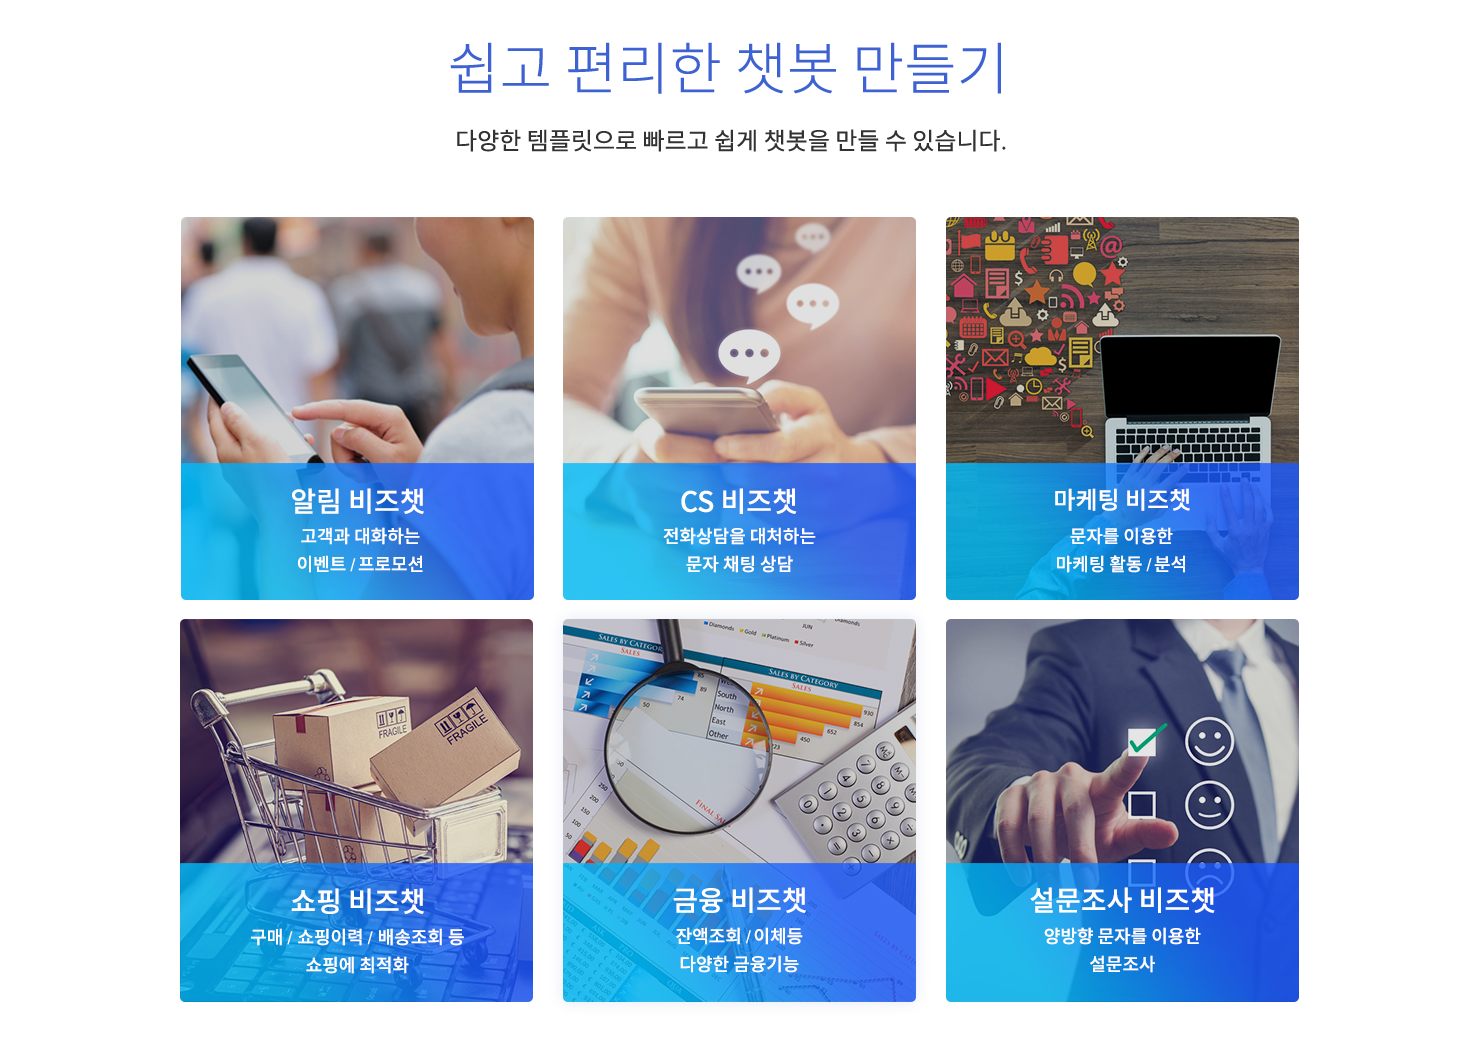
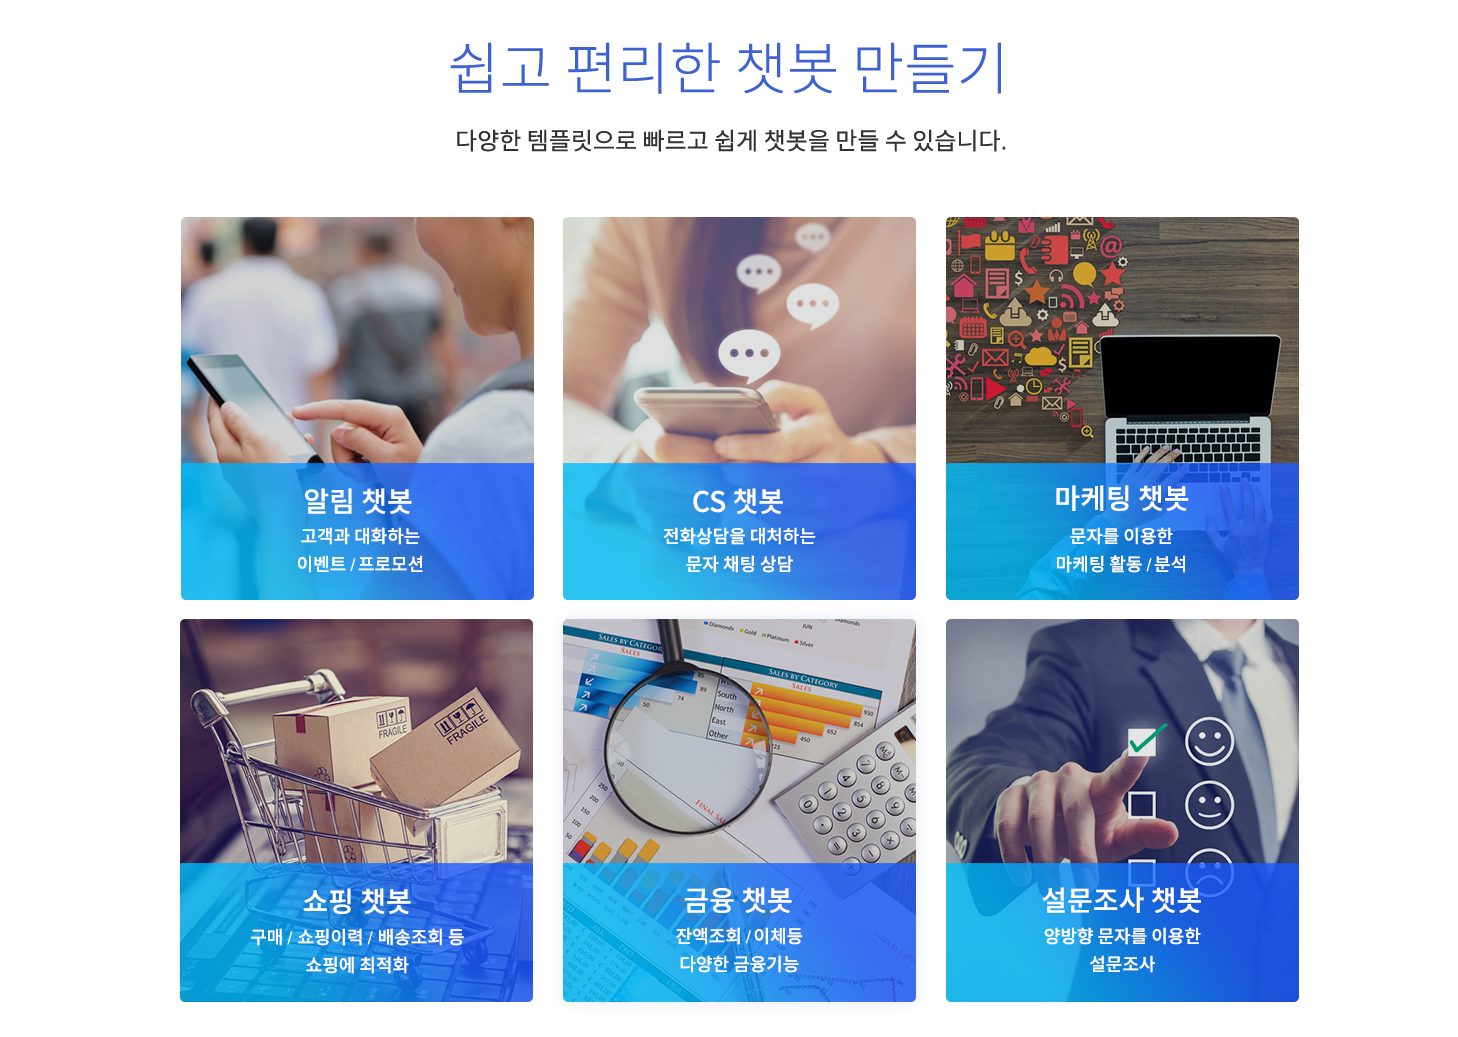
lisa

diff --git a/modules/playchat/working-ground/biz-summary-chatbot-report/client/views/biz-summary-chatbot-report-analysis.client.view.html b/modules/playchat/working-ground/biz-summary-chatbot-report/client/views/biz-summary-chatbot-report-analysis.client.view.html
@@ -135,12 +135,12 @@
                                         <div class="inline-block mt30">
                                             <div>
                                                 <div class="bot-messages-list mt20 mb50" style="width: 39%;">
-                                                    <span class="subject02">보낸 메세지 리스트</span>
+                                                    <span class="subject02">보낸 메시지 리스트</span>
                                                     <ul>
                                                         <li class="select mt14 mb0" style="border: 1px solid #d0d2d3;border-bottom: none;">
                                                             <div>
                                                                 <span class="message-title01">01.</span>
-                                                                <span class="message-title03">메세지</span>
+                                                                <span class="message-title03">메시지</span>
                                                                 <span  ng-click="cardUiSet(card)" class="open-btn"><img src="/modules/playchat/working-ground/biz-dialog-graph/client/imgs/minus_.png"></span>
                                                             </div>
                                                             <div class="detail-select pt10">
@@ -158,32 +158,32 @@
                                                         <li class="unsel mt0 mb0 sbox-01" style="border-bottom: none;">
                                                             <div>
                                                                 <span class="message-title01">06.</span>
-                                                                <span class="message-title03">메세지</span>
+                                                                <span class="message-title03">메시지</span>
                                                             </div>
                                                         </li>
                                                         <li class="unsel mt0 mb0 sbox-01" style="border-bottom: none;">
                                                             <div>
                                                                 <span class="message-title01">04.</span>
-                                                                <span class="message-title03">메세지</span>
+                                                                <span class="message-title03">메시지</span>
                                                             </div>
                                                         </li>
                                                         <li class="unsel mt0 mb0 sbox-02" style="border-bottom: none;">
                                                             <div>
                                                                 <span class="message-title01">03.</span>
-                                                                <span class="message-title03">메세지</span>
+                                                                <span class="message-title03">메시지</span>
                                                             </div>
                                                         </li>
                                                         <li class="unsel mt0 mb0 sbox-02">
                                                             <div>
                                                                 <span class="message-title01">05.</span>
-                                                                <span class="message-title03">메세지</span>
+                                                                <span class="message-title03">메시지</span>
                                                             </div>
                                                         </li>
 
                                                         <li class="select mt0 mb0" style="border: 1px solid #d0d2d3;border-bottom: none;border-top: none;">
                                                             <div>
                                                                 <span class="message-title01">07.</span>
-                                                                <span class="message-title03">메세지</span>
+                                                                <span class="message-title03">메시지</span>
                                                                 <span  ng-click="cardUiSet(card)" class="open-btn">
                                         <img src="/modules/playchat/working-ground/biz-dialog-graph/client/imgs/minus_.png">
                                     </span>
@@ -205,13 +205,13 @@
                                                         <li class="unsel mt0 mb0 sbox-01" style="border-bottom: none;">
                                                             <div>
                                                                 <span class="message-title01">08.</span>
-                                                                <span class="message-title03">메세지</span>
+                                                                <span class="message-title03">메시지</span>
                                                             </div>
                                                         </li>
                                                         <li class="unsel mt0 mb0 sbox-01">
                                                             <div>
                                                                 <span class="message-title01">09.</span>
-                                                                <span class="message-title03">메세지</span>
+                                                                <span class="message-title03">메시지</span>
                                                             </div>
                                                         </li>
                                                     </ul>

diff --git a/modules/playchat/working-ground/layout-sam/client/views/layout-sam-development.client.view-analysis-report-modal.html b/modules/playchat/working-ground/layout-sam/client/views/layout-sam-development.client.view-analysis-report-modal.html
@@ -120,12 +120,12 @@
                             <div class="inline-block mt30">
                                 <div>
                                     <div class="bot-messages-list mt20 mb50" style="width: 39%;">
-                                        <span class="subject02">보낸 메세지 리스트</span>
+                                        <span class="subject02">보낸 메시지 리스트</span>
                                         <ul>
                                             <li class="select mt14 mb0" style="border: 1px solid #d0d2d3;border-bottom: none;">
                                                 <div>
                                                     <span class="message-title01">01.</span>
-                                                    <span class="message-title03">메세지</span>
+                                                    <span class="message-title03">메시지</span>
                                                     <span  ng-click="cardUiSet(card)" class="open-btn"><img src="/modules/playchat/working-ground/biz-dialog-graph/client/imgs/minus_.png"></span>
                                                 </div>
                                                 <div class="detail-select pt10">
@@ -143,32 +143,32 @@
                                             <li class="unsel mt0 mb0 sbox-01" style="border-bottom: none;">
                                                 <div>
                                                     <span class="message-title01">06.</span>
-                                                    <span class="message-title03">메세지</span>
+                                                    <span class="message-title03">메시지</span>
                                                 </div>
                                             </li>
                                             <li class="unsel mt0 mb0 sbox-01" style="border-bottom: none;">
                                                 <div>
                                                     <span class="message-title01">04.</span>
-                                                    <span class="message-title03">메세지</span>
+                                                    <span class="message-title03">메시지</span>
                                                 </div>
                                             </li>
                                             <li class="unsel mt0 mb0 sbox-02" style="border-bottom: none;">
                                                 <div>
                                                     <span class="message-title01">03.</span>
-                                                    <span class="message-title03">메세지</span>
+                                                    <span class="message-title03">메시지</span>
                                                 </div>
                                             </li>
                                             <li class="unsel mt0 mb0 sbox-02">
                                                 <div>
                                                     <span class="message-title01">05.</span>
-                                                    <span class="message-title03">메세지</span>
+                                                    <span class="message-title03">메시지</span>
                                                 </div>
                                             </li>
 
                                             <li class="select mt0 mb0" style="border: 1px solid #d0d2d3;border-bottom: none;border-top: none;">
                                                 <div>
                                                     <span class="message-title01">07.</span>
-                                                    <span class="message-title03">메세지</span>
+                                                    <span class="message-title03">메시지</span>
                                                     <span  ng-click="cardUiSet(card)" class="open-btn">
                                         <img src="/modules/playchat/working-ground/biz-dialog-graph/client/imgs/minus_.png">
                                     </span>
@@ -190,13 +190,13 @@
                                             <li class="unsel mt0 mb0 sbox-01" style="border-bottom: none;">
                                                 <div>
                                                     <span class="message-title01">08.</span>
-                                                    <span class="message-title03">메세지</span>
+                                                    <span class="message-title03">메시지</span>
                                                 </div>
                                             </li>
                                             <li class="unsel mt0 mb0 sbox-01">
                                                 <div>
                                                     <span class="message-title01">09.</span>
-                                                    <span class="message-title03">메세지</span>
+                                                    <span class="message-title03">메시지</span>
                                                 </div>
                                             </li>
                                         </ul>

diff --git a/modules/playchat/working-ground/biz-dialog-graph/client/views/biz-dialog-graph-development.client.view.html b/modules/playchat/working-ground/biz-dialog-graph/client/views/biz-dialog-graph-development.client.view.html
@@ -78,7 +78,7 @@ caption
                 <!--</ul>-->
             <!--</div>-->
             <div class="bot-messages-list">
-                <span>{{chatbot.name}} (총 {{Data.cardArr.length}} 개의 메세지)</span>
+                <span>{{chatbot.name}} (총 {{Data.cardArr.length}} 개의 메시지)</span>
                 <ul ondragstart="DRAG.dragStartHandler(event)" ondrop="DRAG.drop_handler(event);" ondragover="DRAG.dragover_handler(event);">
                     <li ng-repeat="card in Data.cardArr | orderBy:'index'" draggable="true" data-value="{{card}}" class="dragline unsel" ng-class="card.is_open? 'select' : ''" ng-click="addudtList(card)">
                         <div ng-if="!card.is_open">
@@ -211,7 +211,7 @@ caption
                                 </div>
                             </div>
                             <div style="text-align: right">
-                                <a class="btn-style03" href="" ng-click="addCard(addCardSentence)">메세지 추가</a>
+                                <a class="btn-style03" href="" ng-click="addCard(addCardSentence)">메시지 추가</a>
                             </div>
                         </div>
                         <!-- 단답형, 일반형, 연락처수집형, 날짜수집형 -->
@@ -225,7 +225,7 @@ caption
                             <p class="cd">내용입력</p>
                             <textarea placeholder="내용을 입력해주세요." ng-model="addCardSentence.message"></textarea>
                             <div style="text-align: right">
-                                <a class="btn-style03" href="" ng-click="addCard(addCardSentence)">메세지 추가</a>
+                                <a class="btn-style03" href="" ng-click="addCard(addCardSentence)">메시지 추가</a>
                             </div>
                         </div>
                         <!-- 정보형 -->
@@ -242,7 +242,7 @@ caption
                                 <label>URL</label><input type="text" class="ml3 type03" value="{{addCardSentence.output.url}}">
                             </div>
                             <div style="text-align: right">
-                                <a class="btn-style03" href="" ng-click="addCard(addCardSentence)">메세지 추가</a>
+                                <a class="btn-style03" href="" ng-click="addCard(addCardSentence)">메시지 추가</a>
                             </div>
                         </div>
                         <!-- 이미지형 -->
@@ -262,7 +262,7 @@ caption
                             <p class="cd">내용입력</p>
                             <textarea placeholder="내용을 입력해주세요." ng-model="addCardSentence.message"></textarea>
                             <div style="text-align: right">
-                                <a class="btn-style03" href="" ng-click="addCard(addCardSentence)">메세지 추가</a>
+                                <a class="btn-style03" href="" ng-click="addCard(addCardSentence)">메시지 추가</a>
                             </div>
                         </div>
                     </li>

diff --git a/modules/front/biz-index.server.view.html b/modules/front/biz-index.server.view.html
@@ -326,7 +326,7 @@
                 <div class="col-sm-5">
                     <div class="singleTst" style="background: #fff7cd;">
                         <p class="clientName"><span style="color: #288feb;">Playchat Bizz 마케팅</span></p>
-                        <p style="color: #000;">대화형 양방향 메세지<br>
+                        <p style="color: #000;">대화형 양방향 메시지<br>
                             빠른 피드백 및 높은 고객 유입<br>
                             마케팅 효과 대비 낮은 비용<br>
                             웹 개발없이 이벤트 진행
@@ -339,8 +339,8 @@
                 <div class="col-sm-5">
                     <div class="singleTst">
                         <p class="clientName">기존 SNS, SMS 마케팅</p>
-                        <p>1회성 단방향 메세지<br>
-                            낮은 고객유입<br>
+                        <p>1회성 단방향 메시지<br>
+                            낮은 고객 유입<br>
                             마케팅 효과 대비 높은 비용<br>
                             이벤트 진행을 위한 웹 url 개발 필수
                         </p>
